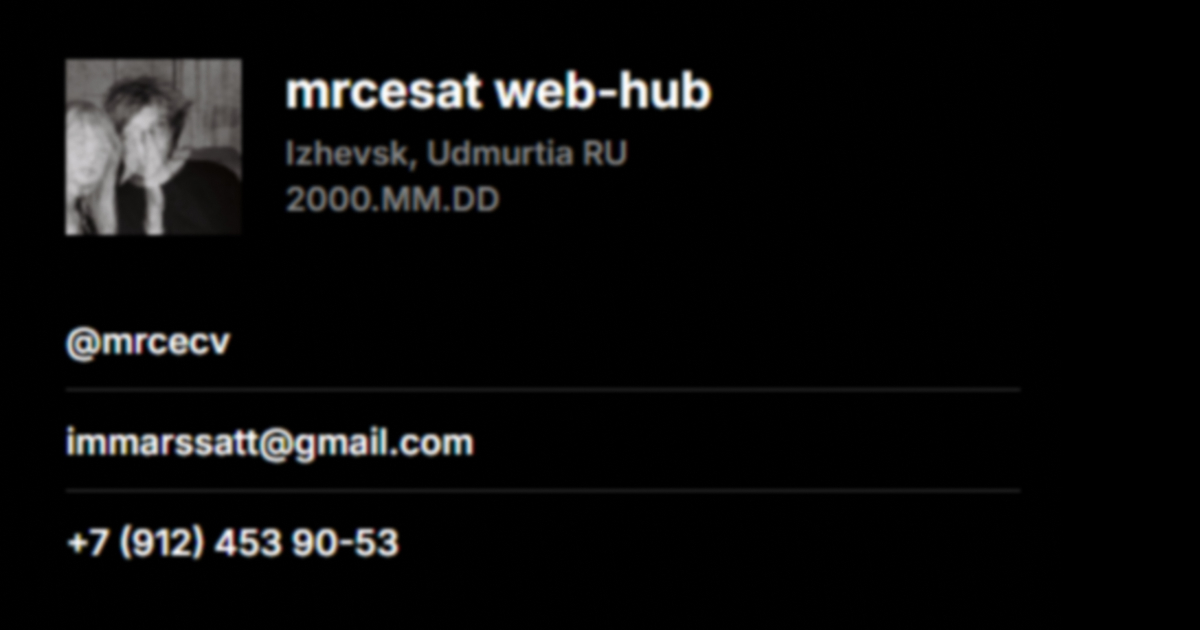
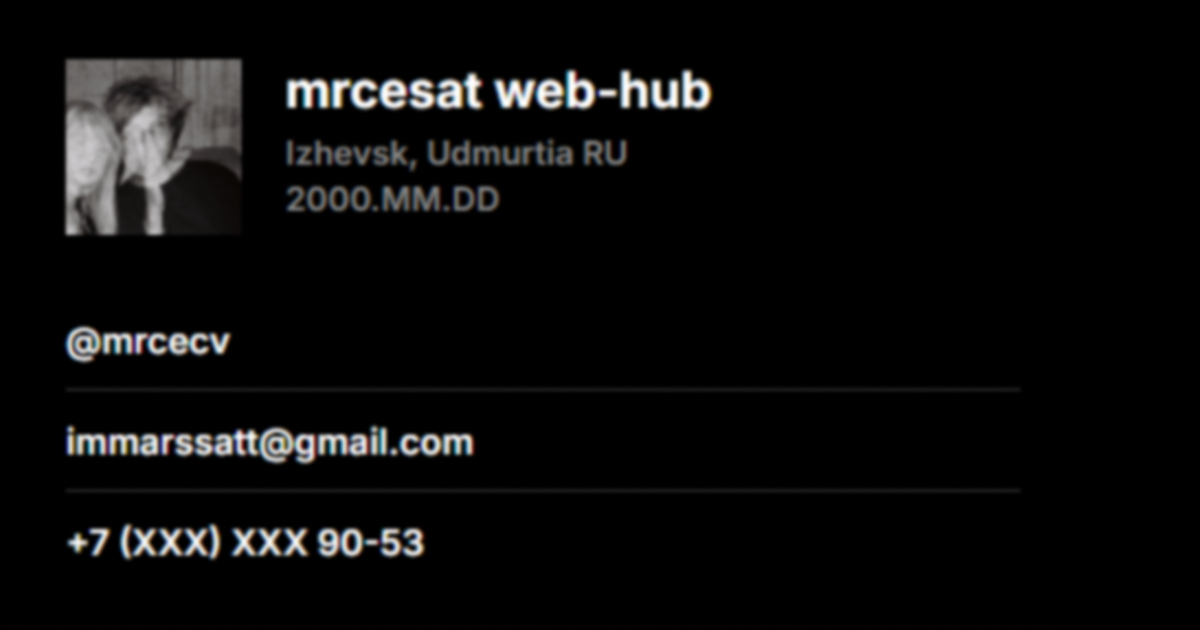
mobilevertest2+previewupdate

Changed region(s): [[0.0925, 0.8143, 0.37, 0.9048]]

diff --git a/css/style.css b/css/style.css
@@ -1119,8 +1119,16 @@
 
 @media (max-width: 768px) {
     /* === 1. СТРУКТУРА СТРАНИЦЫ === */
+    .split-page {
+        height: auto !important;
+        min-height: 100vh;
+        overflow-y: auto !important;
+        overflow-x: hidden;
+    }
+
     .split-container {
-        flex-direction: column;
+        height: auto !important;
+        min-height: 100vh;
     }
 
     .right-panel {
